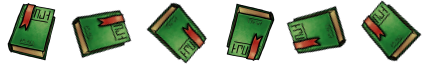
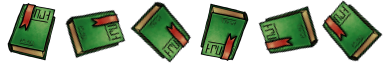
replaced coin by book

Changed region(s): [[0.0, 0.0, 1.0, 1.0], [0.9375, 0.3438, 0.9688, 0.4062]]

diff --git a/core/src/at/gamejam/ktn/game/entites/Thesis.java b/core/src/at/gamejam/ktn/game/entites/Thesis.java
@@ -6,7 +6,7 @@ import com.badlogic.gdx.physics.box2d.World;
 public class Thesis extends Item {
 	public Thesis(final Vector2 position, final World b2World, final boolean init) {
 		super(position, b2World);
-		this.numPictures = 8;
+		this.numPictures = 6;
 		if (init) {
 			this.init(true, init);
 		}
@@ -14,7 +14,7 @@ public class Thesis extends Item {
 
 	@Override
 	protected void loadAsset() {
-		this.texture = this.assets.findRegion("coin_gold");
+		this.texture = this.assets.findRegion("book_green");
 	}
 
 }
